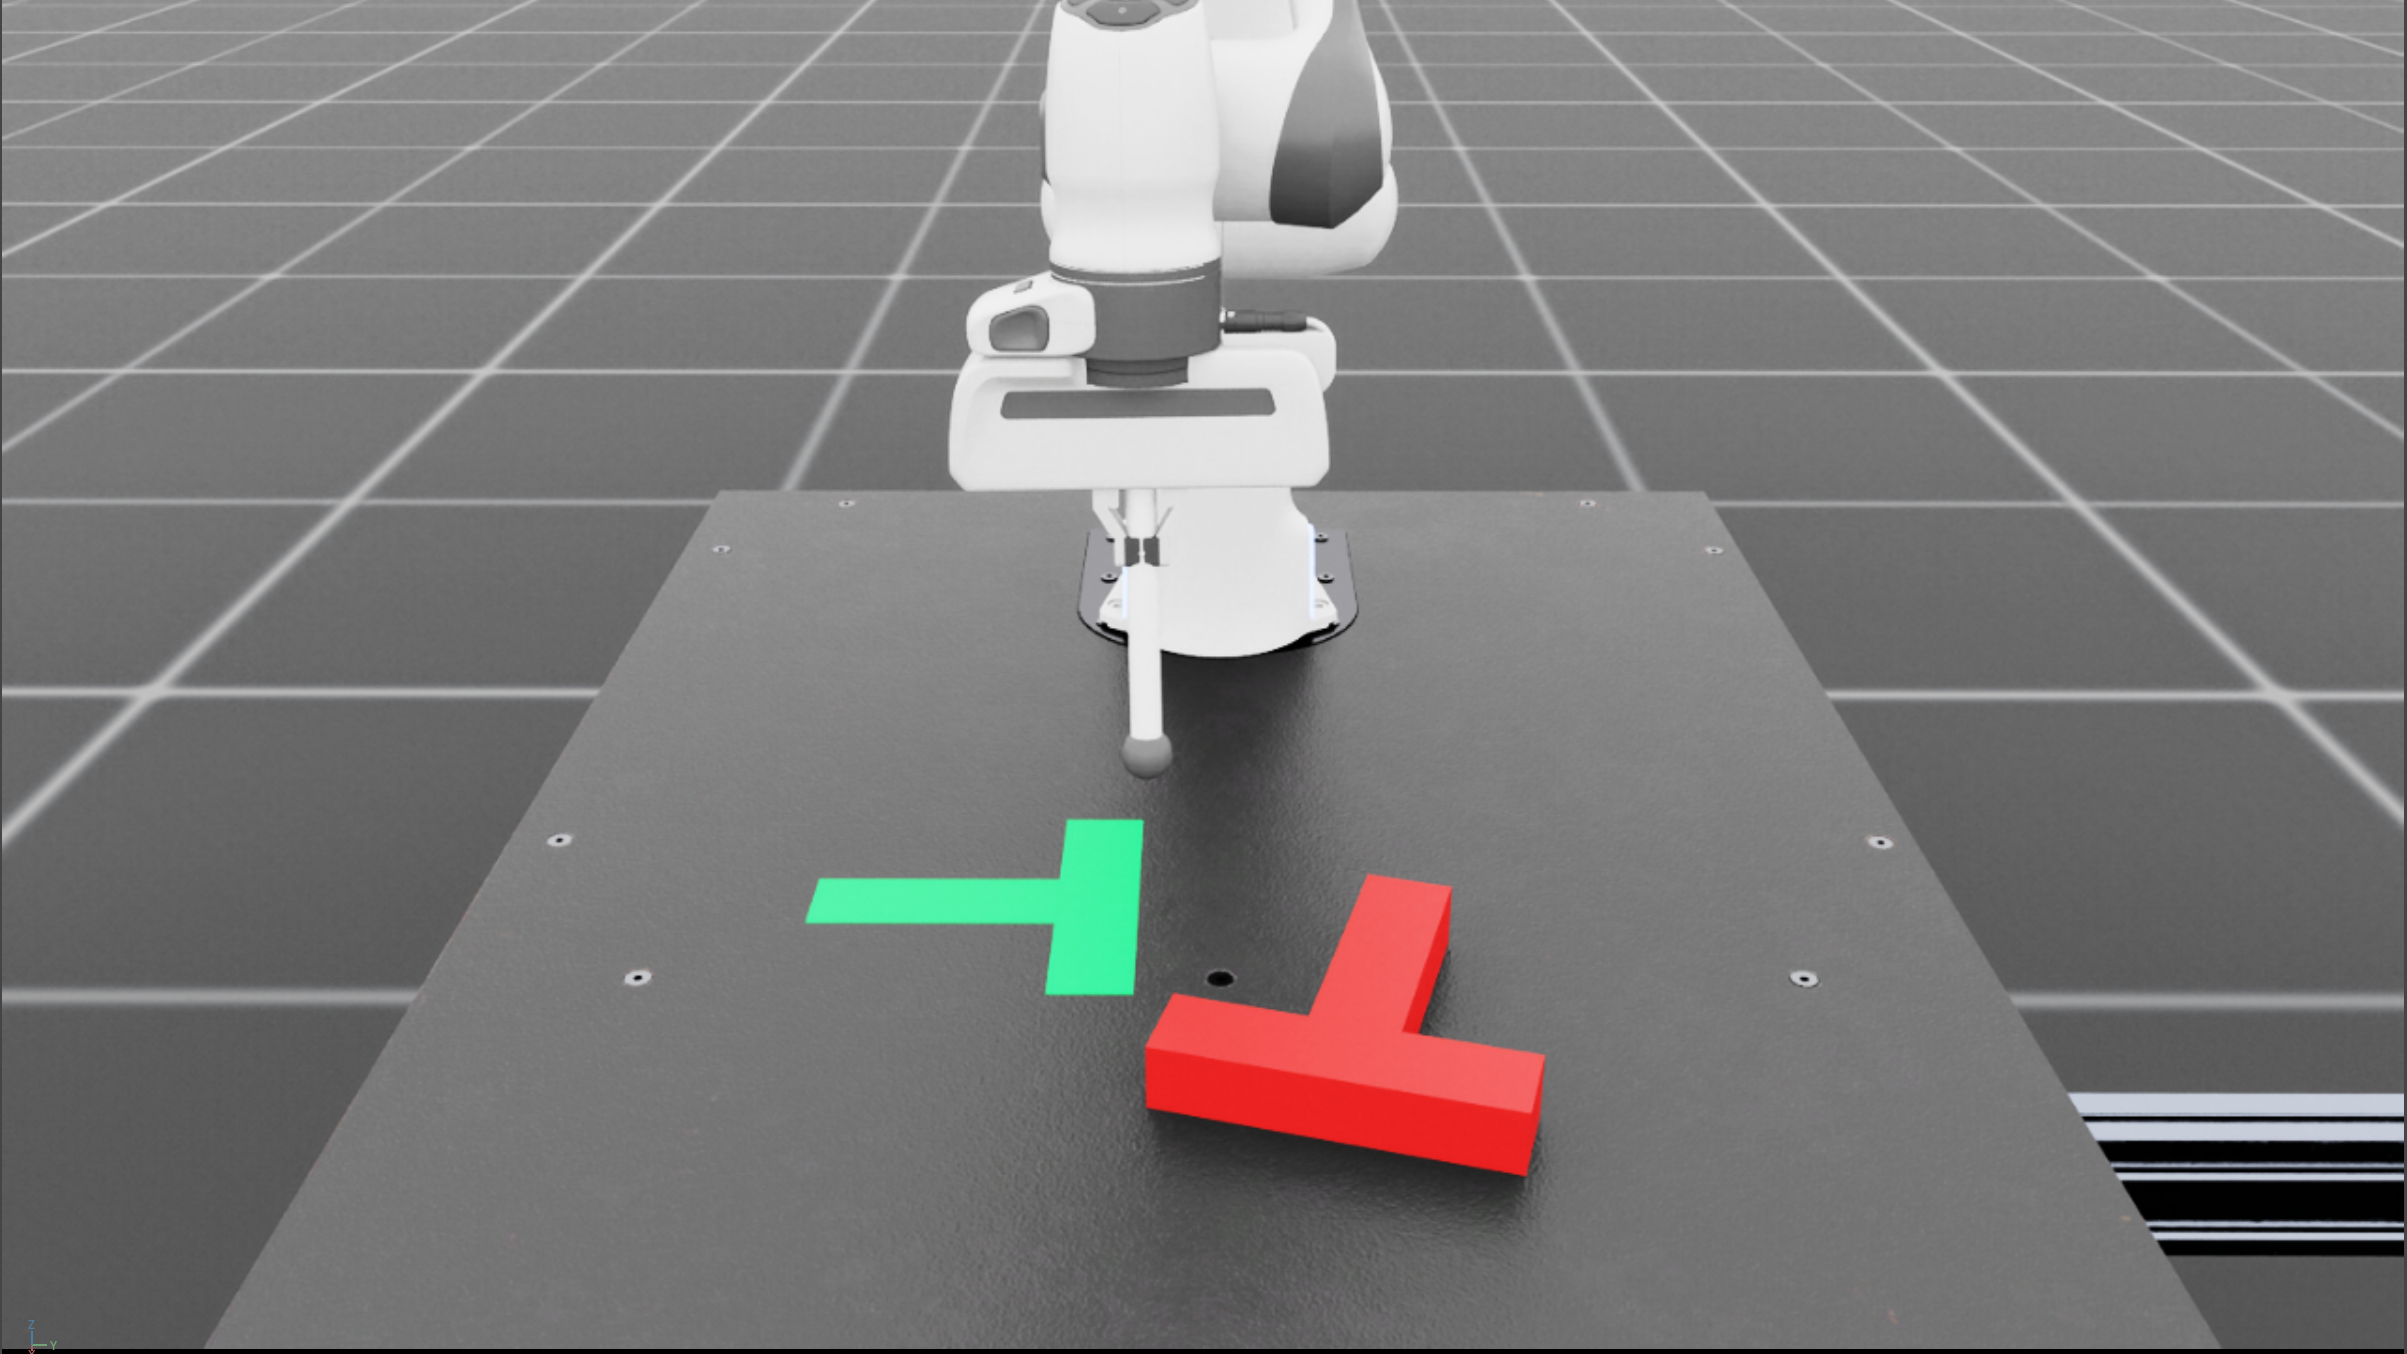
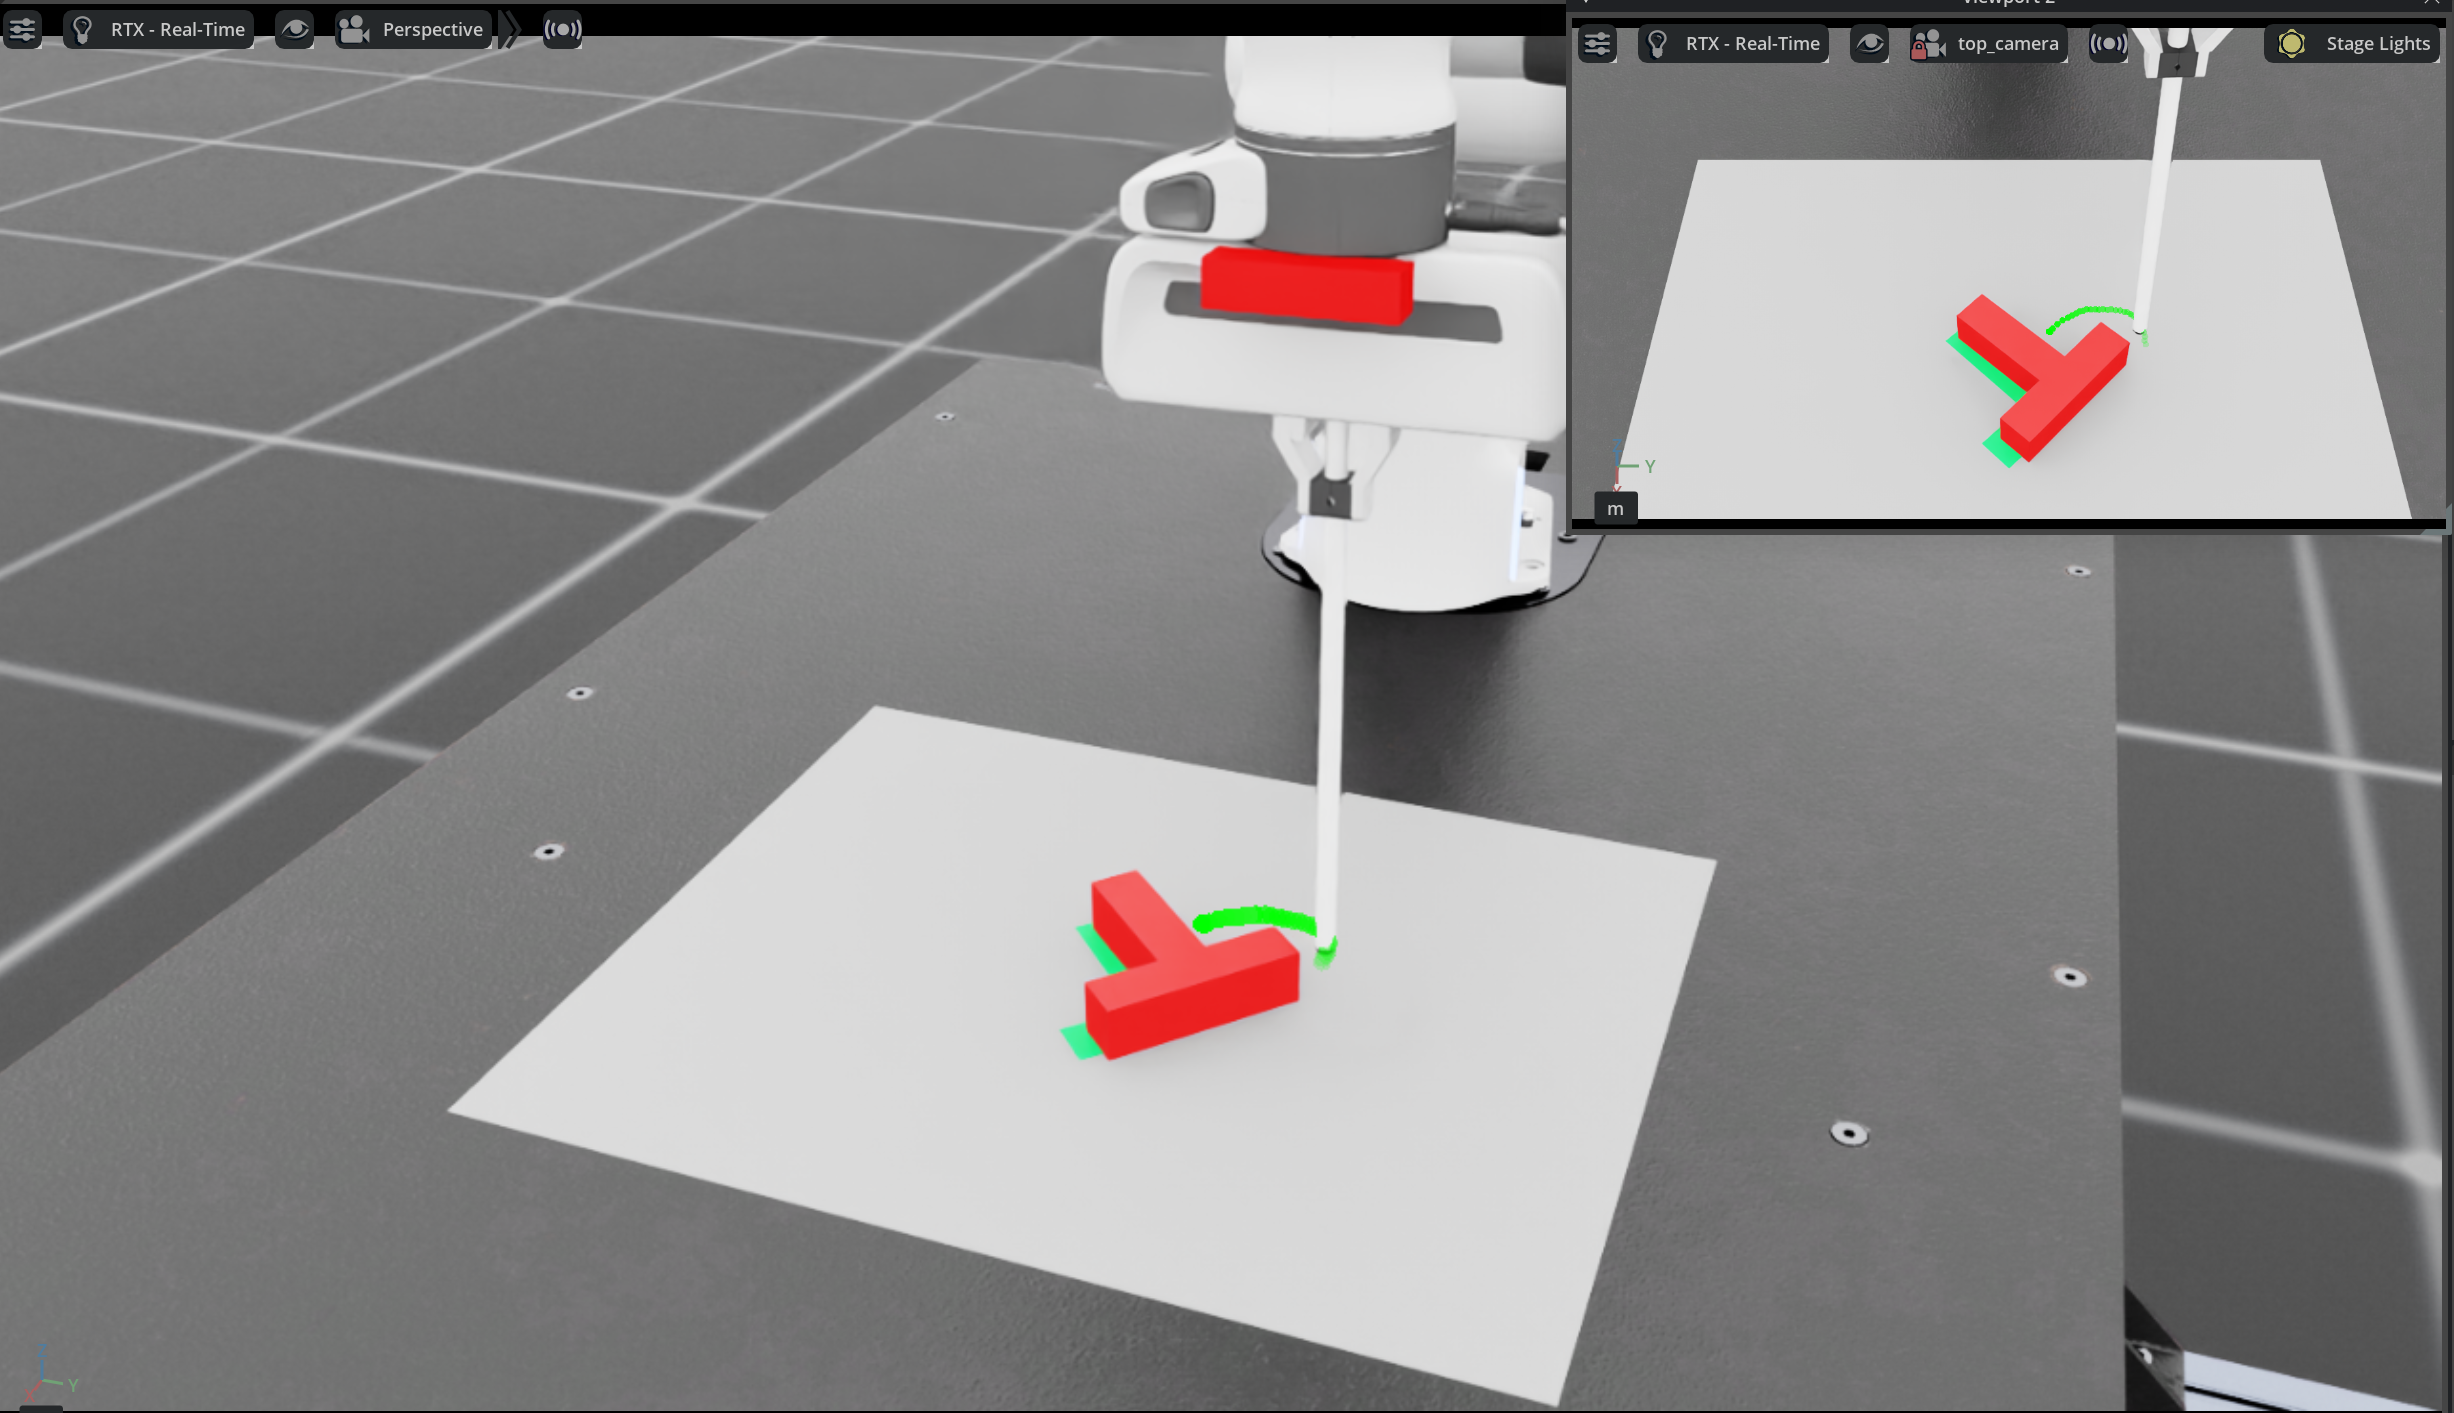
[doc] update readme

diff --git a/README.md b/README.md
@@ -1,184 +1,95 @@
-# Isaac-Pusht-v0 
+# Isaac-Pusht-v0 & Diffusion Policy
 
-## Overview
+## 概述
 
-This repository contains the code for the Isaac-Pusht-v0 task.
+本仓库提供了IsaacLab PushT环境代码 `Isaac-Pusht-v0`, 并提供完整Diffusion Policy 数据采集、回放以及策略训练、推理管线，效果[参见](https://www.bilibili.com/video/BV1t2L26HEN5/)。
+
 <div style="display: flex; justify-content: center;">
   <img src="source/isaac_pusht/docs/display.png" alt="Isaac-Pusht-v0" width="400">
 </div>
 
-## Installation
 
-- Install Isaac Lab by following the [installation guide](https://isaac-sim.github.io/IsaacLab/main/source/setup/installation/index.html).
-  We recommend using the conda or uv installation as it simplifies calling Python scripts from the terminal.
+## 快速开始
 
-- Clone or copy this project/repository separately from the Isaac Lab installation (i.e. outside the `IsaacLab` directory):
+### 安装
 
-- Using a python interpreter that has Isaac Lab installed, install the library in editable mode using:
+1. 安装 Isaac Lab
 
-    ```bash
-    # use 'PATH_TO_isaaclab.sh|bat -p' instead of 'python' if Isaac Lab is not installed in Python venv or conda
-    python -m pip install -e source/isaac_pusht
-    ```
+[installation guide](https://isaac-sim.github.io/IsaacLab/main/source/setup/installation/index.html)
 
-- Verify that the extension is correctly installed by:
+2. 安装本仓库
 
-    - Listing the available tasks:
+```bash
+git clone https://github.com/yueduduo/isaac_pushT.git
+cd isaac_pushT
+python -m pip install -e source/isaac_pusht
+```
 
-        Note: It the task name changes, it may be necessary to update the search pattern `"Template-"`
-        (in the `scripts/list_envs.py` file) so that it can be listed.
+3. 安装 lerobot
 
-        ```bash
-        python scripts/list_envs.py
-        ```
+```bash
+wget -O lerobot.zip https://codeload.github.com/huggingface/lerobot/zip/refs/tags/v0.5.1
+unzip lerobot.zip
+mv lerobot-0.5.1 lerobot
+rm lerobot.zip
+cd lerobot
+pip install -e .
+```
 
-    - Running with keyboard teleoperation:
+### 数据收集与回放
 
-        ```bash
-        python scripts/teleop_se3_agent.py --task Isaac-Pusht-v0 
-        ```
-
-    - Running a task with dummy agents:
-
-        These include dummy agents that output zero or random agents. They are useful to ensure that the environments are configured correctly.
-
-        - Zero-action agent
-
-            ```bash
-            python scripts/zero_agent.py --task=Isaac-Pusht-v0 
-            ```
-        - Random-action agent
-
-            ```bash
-            python scripts/random_agent.py --task=Isaac-Pusht-v0 
-            ```
-
-## Data Collection and Visualization
-
-This project supports data collection and visualization using the LeRobot v3.0 format.
-
-### 1. Data Collection
-
-Run the following command to start collecting data (including camera observations):
+1. 手动采集
 
 ```bash
 python scripts/record_lerobot.py --task Isaac-Pusht-v0 --num_episodes 200 --enable_cameras
 ```
 
-### 2. Data Visualization
+- 采集的数据默认保存在`项目根目录/data/isaac_pusht`目录。
+- 请注意：采集的数据质量严重影响Diffusion Policy的训练效果。
 
-After collection is complete, you can use the `lerobot` visualization tool to view the data:
+另：目前已有的数据(质量尚可)，参见[地址](https://www.modelscope.cn/datasets/yueduduo/isaac_pusht)
+
+2. 数据回放
+
+- isaaclab 回放
+
+```bash
+python scripts/record_lerobot_replay.py ----repo_id isaac_pusht --root data/isaac_pusht --episode_idx 0 --enable_cameras
+```
+
+- lerobot viz
 
 ```bash
 python -m lerobot.scripts.lerobot_dataset_viz --repo-id isaac_pusht --root data/isaac_pusht --episode-index 0
 ```
 
-## Policy Training (LeRobot Diffusion)
-
-Training uses **`lerobot.policies.diffusion.DiffusionPolicy`** (1D conditional U-Net, SpatialSoftmax vision, `diffusers` DDPM schedule). There is **no** local `algo/` package; old Transformer+flatten checkpoints are **not** compatible.
-
-Training budget is **`--train-steps`** (number of `optimizer.step` calls). `horizon` must be divisible by `2 ** len(down_dims)` (default down_dims length 3 → multiple of 8).
-
-```bash
-python scripts/train.py --repo-id isaac_pusht --root data/isaac_pusht --horizon 32 --train-steps 5000 --batch-size 32 --device cuda
-```
-
-### JSON config (`scripts/configs`)
-
-- Example: [`scripts/configs/train_default.json`](scripts/configs/train_default.json)
-- Loader: `utils/train_config.py`
-- Sections: **`train`**, **`diffusion_trainer`** (maps into `DiffusionConfig` where keys match), optional **`lerobot_diffusion`** for further overrides.
+### Diffusion Policy 训练
 
 ```bash
 python scripts/train.py --config scripts/configs/train_default.json
 ```
+默认仅保存best和last权重, 路径位于`项目根目录/checkpoints`
 
-### Freeze RGB backbone (optional)
-
-```bash
-python scripts/train.py --horizon 32 --freeze-resnet --freeze-steps 500
-```
-
-### Resume (`--resume`)
-
-Checkpoints are **`lerobot_diffusion`** format (`policy_type` + pickled `DiffusionConfig` + weights). Old `best_diffusion.pt` from the removed custom algo cannot be loaded.
-
-```bash
-python scripts/train.py --config scripts/configs/train_default.json --resume checkpoints/last_diffusion.pt --train-steps 2000
-```
-
-Sidecar `*.norm.json` behavior is unchanged.
-
-## Policy Evaluation
-
-`scripts/eval.py` expects the repository root on `PYTHONPATH` (same as `scripts/train.py`).
-
-```bash
-python scripts/eval.py --ckpt checkpoints/best_diffusion.pt --repo-id isaac_pusht --root data/isaac_pusht --horizon 32 --device cuda
-```
-
-`--horizon` must match the checkpoint training horizon.
-
-### Isaac Lab simulation (`eval_model.py`, `record_model_replay.py`)
-
-These scripts load the trained diffusion policy and step the **Isaac** task (not the offline dataloader in `eval.py`).
-
-- **`scripts/eval_model.py`** — roll out `Isaac-Pusht-v0` with the policy for multiple episodes (uses `AppLauncher`; run with the same Isaac Lab Python you use for training data collection).
-- **`scripts/record_model_replay.py`** — replay a single dataset episode: feed dataset images + `observation.state` into the policy and step the sim (see the script docstring for consistency caveats).
-
-By default both load **`--checkpoint`** and `*.norm.json` on the **same machine** as the simulator.
-
-### Remote policy over WebSocket (save VRAM)
-
-If Isaac Sim and the diffusion model do not fit in one GPU, run **inference in a separate process** (or on another host with a GPU) and keep only the simulator on the Isaac machine.
-
-**Implementation** lives under [`utils/remote_policy/`](utils/remote_policy/): msgpack + NumPy wire format (same idea as `pi0_fast_deploy` / `websocket_policy_server.py`), async server + sync client.
-
-1. **Inference server** (no Isaac; needs PyTorch + project `utils` + `lerobot` on `PYTHONPATH`):
-
-   ```bash
-   python scripts/serve_push_diffusion_ws.py --checkpoint checkpoints/best_diffusion.pt --horizon 32 --device cuda:0 --host 0.0.0.0 --port 8765
-   ```
-
-   Requires the sidecar **`checkpoints/best_diffusion.norm.json`** (or whatever matches your checkpoint path). `--horizon` must match training / the client scripts.
-
-2. **Simulator client** — point **`--policy-host`** at the server IP and set **`--policy-port`** (default `8765`):
-
-   ```bash
-   python scripts/eval_model.py --task Isaac-Pusht-v0 --policy-host 192.168.1.10 --policy-port 8765 --horizon 32 ...
-   python scripts/record_model_replay.py --policy-host 192.168.1.10 --policy-port 8765 --horizon 32 ...
-   ```
-
-   When `--policy-host` is set, the client does **not** load local weights; observations are sent as raw images + 21-D state, and the server returns a **denormalized** flat action vector `(horizon * 8,)`.
-
-**Dependencies** for the server/client path: `websockets`, `msgpack` (install in the environment that runs `serve_push_diffusion_ws.py` and in the Isaac env if not already present).
-
-**Health check:** `GET http://<host>:<port>/healthz` → `OK` (handled by the WebSocket server process).
-
-## TensorBoard Visualization
-
-### 1. Training Curves
-
-TensorBoard is enabled by default for `scripts/train.py`. To turn it off or set a run name:
-
-```bash
-python scripts/train.py --horizon 32 --tb-logdir runs --tb-run-name lerobot_dp_h32_exp1
-python scripts/train.py --no-tensorboard
-```
-
-### 2. Evaluation Metrics
-
-Log evaluation metric (`eval/action_mse`) to TensorBoard:
-
-```bash
-python scripts/eval.py --algo diffusion --ckpt checkpoints/best_diffusion.pt --horizon 16 --tensorboard --tb-logdir runs --tb-run-name diffusion_h16_exp1 --tb-step 50
-```
-
-### 3. Start TensorBoard
-
+训练时可以使用 `tensorboard` 查看训练信息 
 ```bash
 tensorboard --logdir runs
 ```
+另：目前已有的权重(质量尚可)，参见[地址](https://www.modelscope.cn/models/yueduduo/isaac_pusht_lerobot_dp/files)
 
-Then open [http://localhost:6006](http://localhost:6006).
+
+### 策略推理
+1. **Inference server** (no Isaac; needs PyTorch + project `utils` + `lerobot` on `PYTHONPATH`):
+```bash
+python scripts/serve_push_diffusion_ws.py --checkpoint checkpoints/best_diffusion.pt --horizon 32 --device cuda:0 --host 0.0.0.0 --port 8765
+```
+
+2. **Simulator client** — point **`--policy-host`** at the server IP and set **`--policy-port`** (default `8765`):
+
+```bash
+pip install websockets msgpack
+
+python scripts/eval_model.py --task Isaac-Pusht-v0 --policy-host localhost --policy-port 8765 --horizon 32 --enable_cameras --debug-draw
+```
+
+
 
